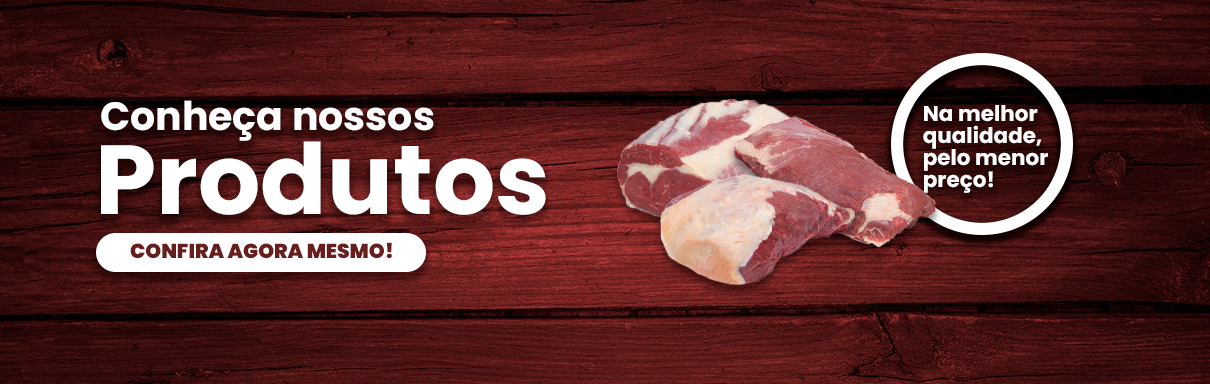
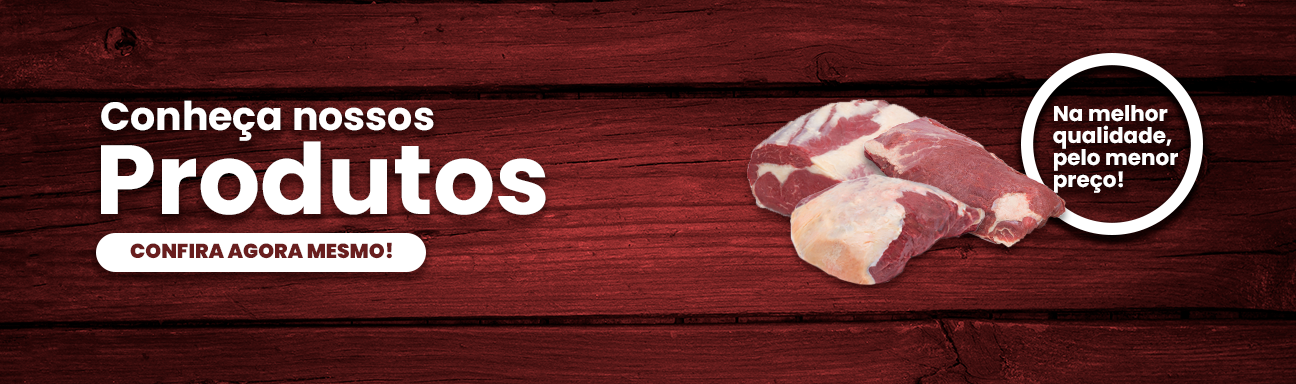
[update]: fix background and responsive

diff --git a/src/css/style.css b/src/css/style.css
@@ -187,6 +187,9 @@
   }
 }
 @media (max-width: 768px) {
+  .header__container {
+    height: 150px;
+  }
   .header__container .header-content {
     height: 80px;
   }
@@ -218,7 +221,7 @@
 }
 
 .main-carousel {
-  height: 50%;
+  height: 1296px;
   width: 100%;
   background: url(../img/carrossel\ 1.png) center/cover no-repeat;
   border-radius: 10px;
@@ -274,19 +277,26 @@
   border-radius: 10px;
 }
 .main-adverts .advert:nth-child(1) {
-  background: url("../img/anuncio 1.png") center/cover no-repeat;
+  background: url("../img/anuncio 1.png") center/contain no-repeat;
 }
 .main-adverts .advert:nth-child(2) {
-  background: url("../img/anuncio 2.png") center/cover no-repeat;
+  background: url("../img/anuncio 2.png") center/contain no-repeat;
 }
 .main-adverts .advert:nth-child(3) {
-  background: url("../img/anuncio 3.png") center/cover no-repeat;
+  background: url("../img/anuncio 3.png") center/contain no-repeat;
 }
 .main-adverts .advert:nth-child(4) {
-  background: url("../img/anuncio 4.png") center/cover no-repeat;
+  background: url("../img/anuncio 4.png") center/contain no-repeat;
 }
 
 @media (max-width: 992px) {
+  .main-head {
+    height: auto;
+  }
+  .main-carousel {
+    height: 200px;
+    background-size: contain;
+  }
   .main-infos {
     flex-wrap: wrap;
     gap: 10px;
@@ -308,8 +318,12 @@
     font-size: 0.5rem;
     text-align: center;
   }
+  .main-adverts {
+    flex-direction: column;
+    gap: 2px;
+  }
   .main-adverts .advert {
-    width: 48%;
+    width: 100%;
   }
 }
 

diff --git a/src/sass/pages/home.scss b/src/sass/pages/home.scss
@@ -8,7 +8,7 @@
 }
 
 .main-carousel {
-  height: 50%;
+  height: 1296px;
   width: 100%;
   background: url(../img/carrossel\ 1.png) center / cover no-repeat;
   border-radius: 10px;
@@ -62,21 +62,28 @@
     background-color: blue;
     border-radius: 10px;
     &:nth-child(1) {
-      background: url("../img/anuncio\ 1.png") center / cover no-repeat;
+      background: url("../img/anuncio\ 1.png") center / contain no-repeat;
     }
     &:nth-child(2) {
-      background: url("../img/anuncio\ 2.png") center / cover no-repeat;
+      background: url("../img/anuncio\ 2.png") center / contain no-repeat;
     }
     &:nth-child(3) {
-      background: url("../img/anuncio\ 3.png") center / cover no-repeat;
+      background: url("../img/anuncio\ 3.png") center / contain no-repeat;
     }
     &:nth-child(4) {
-      background: url("../img/anuncio\ 4.png") center / cover no-repeat;
+      background: url("../img/anuncio\ 4.png") center / contain no-repeat;
     }
   }
 }
 
 @media (max-width: 992px) {
+  .main-head {
+    height: auto;
+  }
+  .main-carousel {
+    height: 200px;
+    background-size: contain;
+  }
   .main-infos {
     flex-wrap: wrap;
     gap: 10px;
@@ -99,8 +106,10 @@
     }
   }
   .main-adverts {
+    flex-direction: column;
+    gap: 2px;
     .advert {
-      width: 48%;
+      width: 100%;
     }
   }
 }

diff --git a/src/sass/header.scss b/src/sass/header.scss
@@ -216,6 +216,9 @@
 }
 
 @media (max-width: 768px) {
+  .header__container {
+    height: 150px;
+  }
   .header__container .header-content {
     height: 80px;
   }
